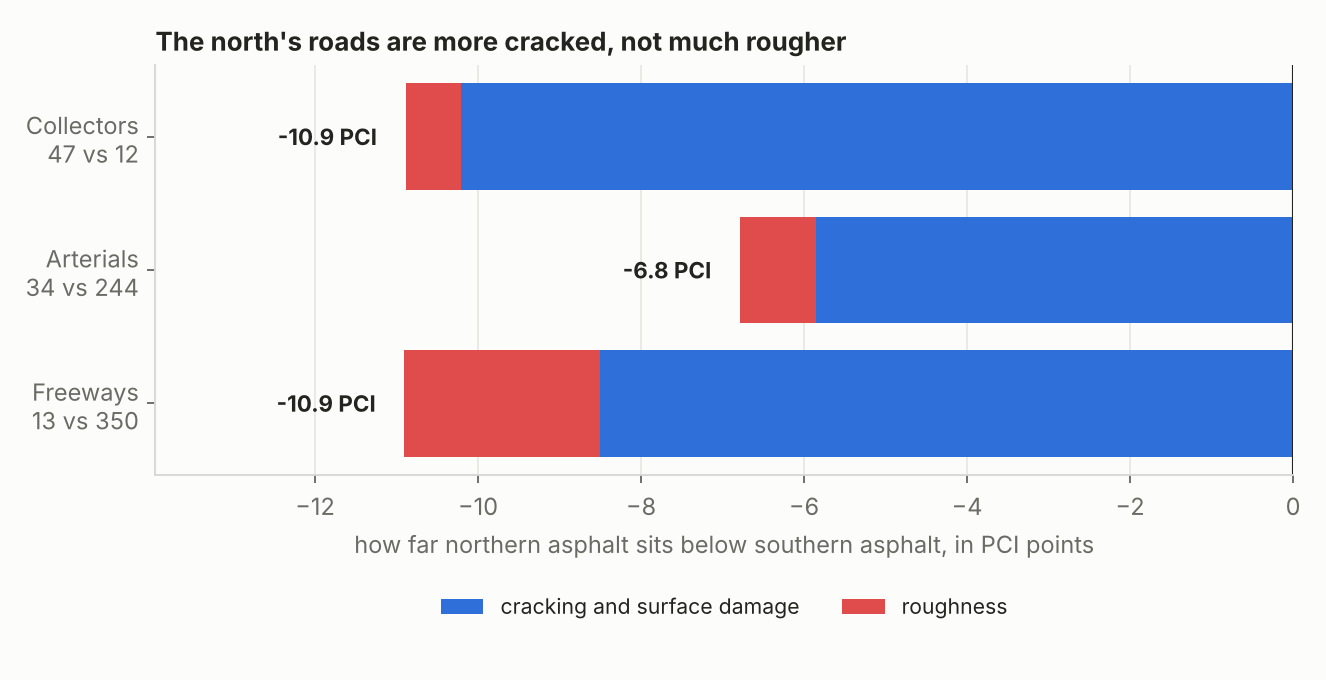
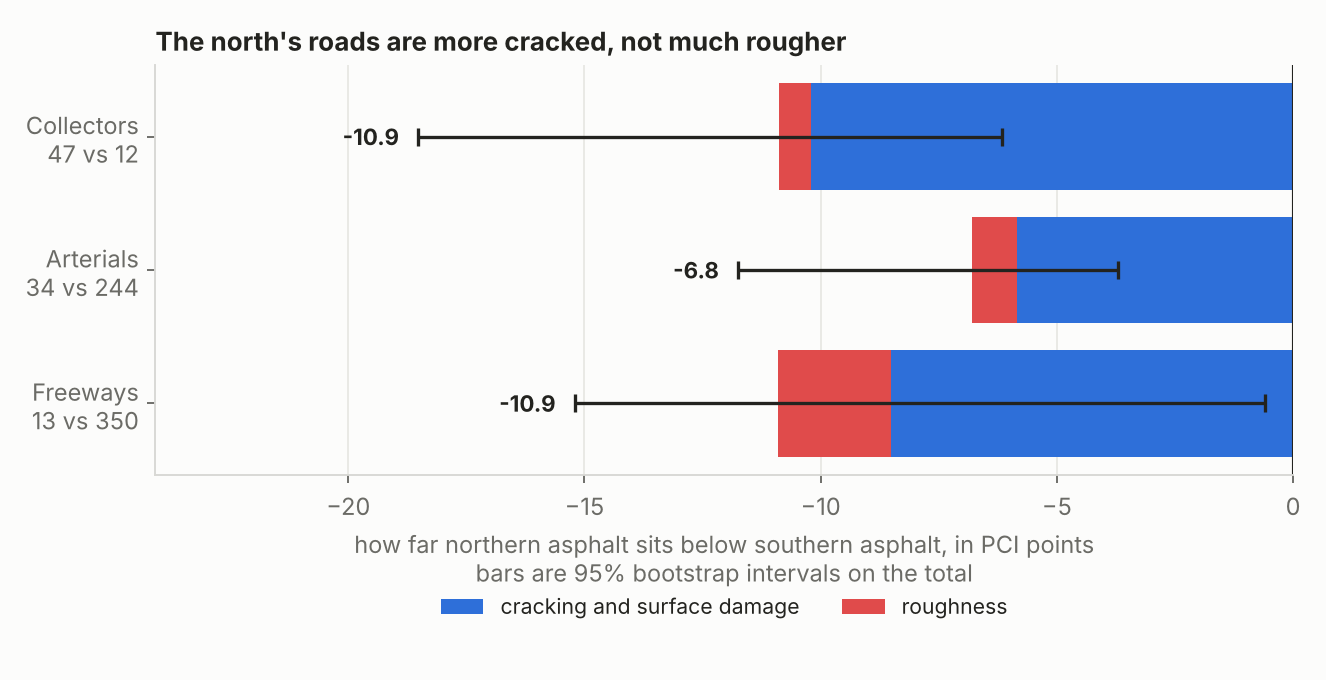
Add bootstrap confidence intervals to the regional gaps
Resamples the sections 5,000 times for each road class. All three gaps clear
zero. Cracking's share is 75% or more on arterials and collectors, but runs
from 30% to 108% on freeways, where only 13 northern sections exist. Noted
that sections on the same highway are not independent.

diff --git a/src/analyse.py b/src/analyse.py
@@ -7,11 +7,14 @@ Run build_dataset.py first. The charts come from figures.py.
 import pathlib
 import sys
 
+import numpy as np
 import pandas as pd
 
 sys.path.insert(0, str(pathlib.Path(__file__).resolve().parent))
 from pci import gap_attribution
 from regions import label_text
+from pci import PCI_COEFFS
+from uncertainty import bootstrap_gap, LEVEL
 
 ROOT = pathlib.Path(__file__).resolve().parent.parent
 
@@ -48,9 +51,15 @@ def compare(df, region_col="region"):
             continue
         g = gap_attribution(north.DMI.median(), north.IRI.median(),
                             south.DMI.median(), south.IRI.median(), "AC")
+        ci = bootstrap_gap(north[["DMI", "IRI"]].to_numpy(),
+                           south[["DMI", "IRI"]].to_numpy(),
+                           PCI_COEFFS["AC"])
         rows.append({"road_class": fc, "n_north": len(north),
                      "n_south": len(south), **g,
-                     "share_cracking": g["cracking"] / g["total"]})
+                     "share_cracking": g["cracking"] / g["total"],
+                     "total_low": ci["total_low"], "total_high": ci["total_high"],
+                     "share_low": ci["share_low"], "share_high": ci["share_high"],
+                     "excludes_zero": ci["excludes_zero"]})
     return pd.DataFrame(rows)
 
 
@@ -87,13 +96,17 @@ def main():
                                 (halves.loss_cracking + halves.loss_roughness))
     print(halves.round(2).to_string())
 
-    print("\nNorthern asphalt against southern asphalt, same road class")
+    print(f"\nNorthern asphalt against southern asphalt, same road class")
+    print(f"  (square brackets are {LEVEL}% bootstrap intervals)")
     gaps = compare(df)
     for _, r in gaps.iterrows():
+        sure = "" if r.excludes_zero else "   [could be chance]"
         print(f"  {r.road_class} ({r.n_north:.0f} north, {r.n_south:.0f} south): "
-              f"{r.total:+.1f} PCI, of which {r.cracking:+.1f} cracking "
-              f"and {r.roughness:+.1f} roughness "
-              f"({r.share_cracking:.0%} cracking)")
+              f"{r.total:+.1f} PCI  [{r.total_low:+.1f} to {r.total_high:+.1f}]"
+              f"{sure}")
+        print(f"      cracking {r.cracking:+.1f}, roughness {r.roughness:+.1f}, "
+              f"cracking is {r.share_cracking:.0%} "
+              f"[{r.share_low:.0%} to {r.share_high:.0%}] of it")
 
     strict, n_overlap, agreement = robustness(df)
     print(f"\nSame comparison using only sections that name a town themselves")

diff --git a/src/uncertainty.py b/src/uncertainty.py
@@ -1,0 +1,64 @@
+"""
+How much of the north-south gap could just be luck.
+
+Thirteen northern freeway sections is not many. Resampling those
+sections, with replacement, a few thousand times shows how far the
+gap moves when the draw changes, which is a fairer thing to quote
+than a single median difference.
+"""
+import numpy as np
+
+DRAWS = 5000
+SEED = 20261112      # fixed so the numbers come out the same every run
+LEVEL = 95
+
+
+def bootstrap_gap(north, south, coeffs, draws=DRAWS, seed=SEED):
+    """
+    A confidence interval for a gap in PCI points, and for the share
+    of it that cracking accounts for.
+
+    north and south are arrays of (DMI, IRI) pairs. coeffs is the
+    (intercept, dmi, iri) triple for the pavement type.
+
+    >>> rng = np.random.default_rng(0)
+    >>> n = np.c_[rng.normal(8.2, .5, 40), rng.normal(1.3, .2, 40)]
+    >>> s = np.c_[rng.normal(9.1, .5, 40), rng.normal(1.05, .2, 40)]
+    >>> r = bootstrap_gap(n, s, (13.75, 9.0, 7.5), draws=400, seed=1)
+    >>> bool(r["total_low"] < r["total"] < r["total_high"])
+    True
+    """
+    _, b, c = coeffs
+    rng = np.random.default_rng(seed)
+
+    def gap(n, s):
+        cracking = b * (np.median(n[:, 0]) - np.median(s[:, 0]))
+        roughness = -c * (np.median(n[:, 1]) - np.median(s[:, 1]))
+        return cracking, roughness
+
+    crack_0, rough_0 = gap(north, south)
+    totals = np.empty(draws)
+    shares = np.empty(draws)
+    for i in range(draws):
+        n = north[rng.integers(0, len(north), len(north))]
+        s = south[rng.integers(0, len(south), len(south))]
+        cr, ro = gap(n, s)
+        totals[i] = cr + ro
+        shares[i] = cr / (cr + ro) if (cr + ro) != 0 else np.nan
+
+    lo, hi = (100 - LEVEL) / 2, 100 - (100 - LEVEL) / 2
+    return {
+        "total": crack_0 + rough_0,
+        "total_low": np.percentile(totals, lo),
+        "total_high": np.percentile(totals, hi),
+        "share_cracking": crack_0 / (crack_0 + rough_0),
+        "share_low": np.nanpercentile(shares, lo),
+        "share_high": np.nanpercentile(shares, hi),
+        "excludes_zero": np.percentile(totals, hi) < 0 or np.percentile(totals, lo) > 0,
+    }
+
+
+if __name__ == "__main__":
+    import doctest
+    fails, total = doctest.testmod()
+    print(f"doctests: {total - fails} passed, {fails} failed")

diff --git a/src/figures.py b/src/figures.py
@@ -85,17 +85,20 @@ def fig3_north_south_gap(gaps):
     y = range(len(g))
     ax.barh(y, g.cracking, color=BLUE, label="cracking and surface damage")
     ax.barh(y, g.roughness, left=g.cracking, color=RED, label="roughness")
-    ax.set_xlim(g.total.min() * 1.28, 0)
+    ax.set_xlim(min(g.total_low.min() * 1.30, g.total.min() * 1.30), 0)
+    ax.errorbar(g.total, list(y), xerr=[g.total - g.total_low,
+                                        g.total_high - g.total],
+                fmt="none", ecolor=INK, elinewidth=1.4, capsize=4, capthick=1.4)
     for i, (_, r) in enumerate(g.iterrows()):
-        ax.annotate(f"{r.total:+.1f} PCI", xy=(r.total - 0.35, i),
+        ax.annotate(f"{r.total:+.1f}", xy=(r.total_low - 0.4, i),
                     ha="right", va="center", fontsize=9.5, color=INK,
                     fontweight="bold")
     ax.set_yticks(list(y))
     ax.set_yticklabels([f"{names[i]}\n{int(r.n_north)} vs {int(r.n_south)}"
                         for i, r in g.iterrows()])
     ax.axvline(0, color=INK, linewidth=0.9)
-    ax.set_xlabel("how far northern asphalt sits below southern asphalt, "
-                  "in PCI points")
+    ax.set_xlabel("how far northern asphalt sits below southern asphalt, in "
+                  "PCI points\nbars are 95% bootstrap intervals on the total")
     ax.set_title("The north's roads are more cracked, not much rougher",
                  loc="left", fontweight="bold")
     ax.legend(frameon=False, fontsize=9, ncol=2,

diff --git a/README.md b/README.md
@@ -7,7 +7,8 @@ the two things it is actually made of, for all 1,861 sections in the 2023 file.
 > A road scoring 60 because it is cracked and a road scoring 60 because it is
 > rough need different repairs and different budgets. PCI cannot tell them
 > apart. Split it, and northern asphalt turns out to sit 7 to 11 points below
-> southern asphalt almost entirely because of cracking, not ride quality.
+> southern asphalt, and at least three quarters of that gap is cracking rather
+> than ride quality.
 
 ![PCI is a formula](figures/1_pci_is_a_formula.png)
 
@@ -55,10 +56,27 @@ northern highways also carry less traffic, get thinner structures and see
 smaller budgets. So I compared asphalt against asphalt inside the same road
 class, which holds most of that constant.
 
-The gap survives, and it is lopsided. On freeways the north sits 10.9 points
-lower, of which 8.5 is cracking and 2.4 is roughness. On arterials it is 6.8
-points, 5.9 of it cracking. On collectors, 10.9 points with 10.2 from
-cracking. Three road classes, three independent comparisons, same answer.
+The gap survives, and it is lopsided.
+
+| Road class | sections | PCI gap | 95% interval | cracking's share | 95% interval |
+|---|---|---|---|---|---|
+| Freeways | 13 vs 350 | -10.9 | -15.2 to -0.6 | 78% | 30% to 108% |
+| Arterials | 34 vs 244 | -6.8 | -11.8 to -3.7 | 86% | 75% to 101% |
+| Collectors | 47 vs 12 | -10.9 | -18.5 to -6.2 | 94% | 77% to 117% |
+
+The intervals come from resampling the sections 5,000 times, which is the
+honest way to report a median difference drawn from thirteen roads.
+
+All three gaps clear zero, so northern asphalt really does score lower. The
+share that cracking accounts for is well pinned down on arterials and
+collectors, where the interval never drops below three quarters. On freeways
+it runs from 30% to 108%, which is another way of saying thirteen sections
+cannot settle the question. Two road classes support the finding and the
+third is too thin to argue either way.
+
+A share above 100% is not a mistake. It means cracking accounts for more than
+the whole gap, because in those draws the northern road is slightly smoother
+and roughness pulls the other way.
 
 ![Distress against roughness](figures/4_two_axes.png)
 
@@ -120,6 +138,9 @@ invented or a year stale.
    themselves, as a check on step 3.
 5. **Attribute the gap.** Multiply the difference in each half by its
    coefficient to get the difference in PCI points.
+6. **Resample.** Draw the sections again with replacement 5,000 times and
+   take the middle 95% of the answers, so the gap comes with a range rather
+   than a single figure.
 
 Nothing is fitted or trained, apart from the two missing equations below.
 
@@ -163,13 +184,16 @@ pip install -r requirements.txt
 # put the 2022 and 2023 CSVs in data/raw/ as pci_2022.csv and pci_2023.csv
 python src/pci.py             # runs the built-in tests
 python src/regions.py         # runs its tests too
+python src/uncertainty.py     # and these
 python src/build_dataset.py   # writes data/processed/sections.csv
 python src/analyse.py         # the comparison, and the data quality audit
 python src/figures.py         # the four charts above
 ```
 
-`pci.py` has six doctests and `regions.py` has three. `analyse.py` prints
-the data quality audit and both versions of the comparison.
+`pci.py` has six doctests, `regions.py` three and `uncertainty.py` five.
+`analyse.py` prints the data quality audit and both versions of the
+comparison. The resampling uses a fixed seed, so it gives the same answer
+every run.
 
 ## What's weak about it
 
@@ -178,13 +202,14 @@ the data quality audit and both versions of the comparison.
   runs 1,885 km and crosses the boundary, so it is excluded rather than
   guessed at. Joining the Ontario Road Network, which has coordinates, would
   fix this properly and is the first thing I want to add.
-- **Thirteen northern freeway sections** carry the freeway comparison. That is
-  a thin basis for a median, and it is why I ran three road classes rather
-  than one. Under the strict labelling the freeway and collector comparisons
-  fall below ten sections a side and drop out entirely.
-- **No confidence intervals.** I quote medians and their difference with
-  nothing around them. With thirteen sections on one side of a comparison
-  that is not good enough, and bootstrapping the gaps is the next fix.
+- **Thirteen northern freeway sections** carry the freeway comparison, and the
+  resampling says plainly that this is not enough: the cracking share could be
+  anywhere from 30% to 108%. The finding rests on arterials and collectors.
+  Under the strict labelling the freeway and collector comparisons fall below
+  ten sections a side and drop out entirely.
+- **The intervals assume the sections are independent.** Neighbouring
+  sections of the same highway were paved at the same time by the same crew,
+  so they are not, and the real intervals are wider than the ones I quote.
 - **North and south is a crude stand-in for climate.** The real variable is
   freeze-thaw cycles and the freezing index, which ClimateData.ca publishes
   for the whole country. Pairing those to each section is the obvious next
